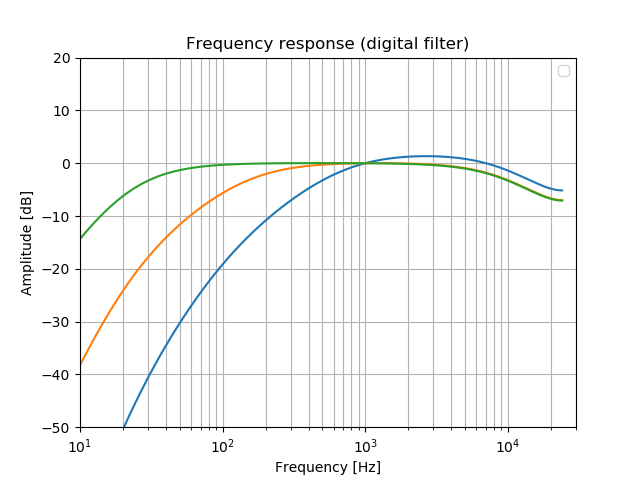
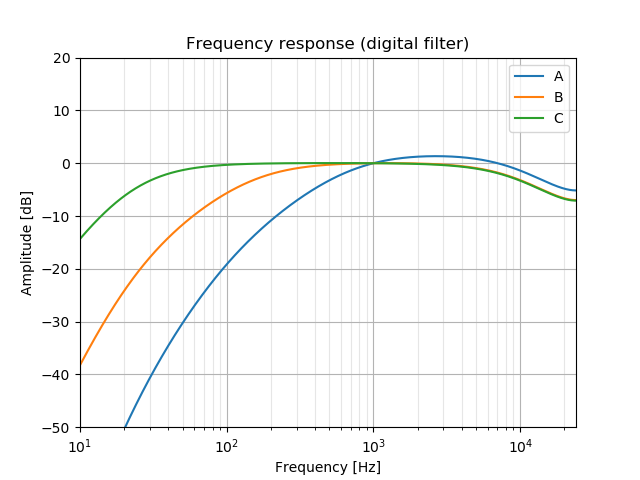
New plots

diff --git a/ABC_weighting.py b/ABC_weighting.py
@@ -31,7 +31,6 @@ Copyright (c) 2022 mail@berndporr.me.uk
 """
 
 import numpy as np
-from numpy import pi, log10
 from scipy.signal import zpk2tf, zpk2sos, freqs, sosfilt
 from scipy import signal
 import matplotlib.pyplot as plt
@@ -50,13 +49,13 @@ def normalise_a2d(z,p,k,fs):
         # Normalize to 0 dB at 1 kHz for all curves
         b, a = zpk2tf(z, p, 1)
         k = 1
-        w = 2*pi * 1000 / fs
+        w = 2*np.pi * 1000 / fs
         [w], [h] = signal.freqz(b, a, [1000], fs=fs)
         k = k / np.abs(h)
     else:
         # Normalise the analogue one to 0dB at 1kHz
         b, a = zpk2tf(z, p, k)
-        k /= abs(freqs(b, a, [2*pi*1000])[1][0])
+        k /= abs(freqs(b, a, [2*np.pi*1000])[1][0])
     return z,p,k
 
 
@@ -81,10 +80,10 @@ def get_zpk(curve='A', fs=False):
     # derivation.  See _derive_coefficients()
 
     z = [0, 0]
-    p = [-2*pi*20.598997057568145,
-         -2*pi*20.598997057568145,
-         -2*pi*12194.21714799801,
-         -2*pi*12194.21714799801]
+    p = [-2*np.pi*20.598997057568145,
+         -2*np.pi*20.598997057568145,
+         -2*np.pi*12194.21714799801,
+         -2*np.pi*12194.21714799801]
     k = 1
 
     if curve == 'A':
@@ -95,8 +94,8 @@ def get_zpk(curve='A', fs=False):
         # IEC 61672 specifies cutoff of "10^2.45 Hz" and formulas for
         # derivation.  See _derive_coefficients()
 
-        p.append(-2*pi*107.65264864304628)
-        p.append(-2*pi*737.8622307362899)
+        p.append(-2*np.pi*107.65264864304628)
+        p.append(-2*np.pi*737.8622307362899)
         z.append(0)
         z.append(0)
 
@@ -105,7 +104,7 @@ def get_zpk(curve='A', fs=False):
         #    Same as C weighting +
         #    1 pole on real axis at "10^2.2 (or 158.5) Hz"
 
-        p.append(-2*pi*10**2.2)  # exact
+        p.append(-2*np.pi*10**2.2)  # exact
         z.append(0)
 
     p = np.array(p)
@@ -168,35 +167,37 @@ def _derive_coefficients():
 
 
 if __name__ == '__main__':
+    fs = 48000
+    
     for curve in ['A', 'B', 'C']:
         z, p, k = get_zpk(curve)
-        w = 2*pi*np.logspace(log10(10), log10(20000), 1000)
+        w = 2*np.pi*np.logspace(np.log10(10), np.log10(fs/2), 1000)
         w, h = signal.freqs_zpk(z, p, k, w)
-        plt.semilogx(w/(2*pi), 20*np.log10(np.abs(h)), label=curve)
+        plt.semilogx(w/(2*np.pi), 20*np.log10(np.abs(h)), label=curve)
     plt.title('Frequency response (analogue filter)')
     plt.xlabel('Frequency [Hz]')
     plt.ylabel('Amplitude [dB]')
     plt.grid(True, color='0.7', linestyle='-', which='major', axis='both')
     plt.grid(True, color='0.9', linestyle='-', which='minor', axis='both')
-    plt.axis([10, 30e3, -50, 20])
+    plt.axis([10, fs/2, -50, 20])
     plt.legend()
 
 
     plt.figure()
 
-    fs = 48000
     for curve in ['A', 'B', 'C']:
         z, p, k = get_zpk(curve,fs)
         b, a = zpk2tf(z, p, k)
         f = np.logspace(np.log10(10), np.log10(fs/2), 1000)
-        w = 2*pi * f / fs
+        w = 2*np.pi * f / fs
         w, h = signal.freqz(b, a, w)
-        plt.semilogx(w*fs/(2*pi), 20*np.log10(abs(h)))
+        plt.semilogx(w*fs/(2*np.pi), 20*np.log10(abs(h)), label=curve)
     plt.title('Frequency response (digital filter)')
     plt.xlabel('Frequency [Hz]')
     plt.ylabel('Amplitude [dB]')
-    plt.grid(True, color='0.7', linestyle='-', which='both', axis='both')
-    plt.axis([10, 30e3, -50, 20])
+    plt.grid(True, color='0.7', linestyle='-', which='major', axis='both')
+    plt.grid(True, color='0.9', linestyle='-', which='minor', axis='both')
+    plt.axis([10, fs/2, -50, 20])
     plt.legend()
 
     plt.show()
